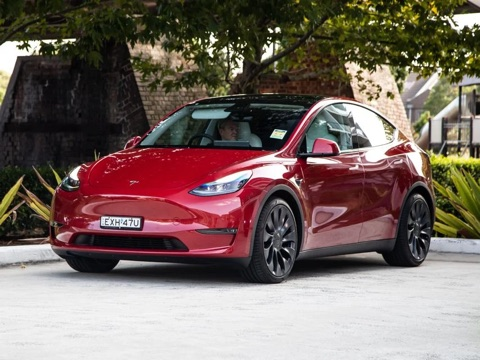
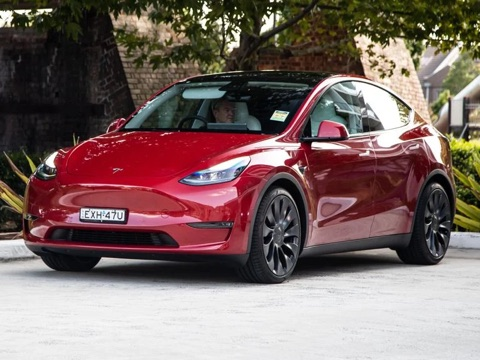
Головні: компактніші demo-блоки, картки прикладів без підписів, рукописна назва продукту
Check demo: оцінка і вердикт "варто розглядати" в одному рядку однією групою,
фото BMW менше на ~28% (196 -> 142px) поруч зі score-зоною, під фото лише
"BMW 5 Series", нижче короткий висновок. Блок став нижчим (285 -> 267px).

Картки прикладів без рядка "Приклад": заголовок блоку вже це каже; лишились
фото, модель і оцінка або сума. "Приклад авто" під фото прибрано на обох
сторінках. EQC і Tesla перекроплені тісніше навколо авто, для кожного
demo-фото окремий object-position.

Import demo: рядки кошторису 34px з іконками 16px, підсумок нижчий, фото
Challenger 132x88 поруч із назвою, три статуси щільніше. Половини рівні за
побудовою; блок за висотою в межах ~12% від Check demo.

Назва продукту біля логотипа: рукописний wordmark Caveat 600 22px у лаймі
(--brand-active) замість важкого курсивного sans; підключення шрифту тим самим
шляхом, що Sora (Google Fonts, text-підмножина "CheckImport"), лише на
чотирьох сторінках із назвою продукту. Правило одне на шести сторінках.

diff --git a/import.html b/import.html
@@ -11,6 +11,7 @@
 <link rel="preconnect" href="https://fonts.googleapis.com">
 <link rel="preconnect" href="https://fonts.gstatic.com" crossorigin>
 <link href="https://fonts.googleapis.com/css2?family=Sora:wght@800&display=swap&text=CalCar" rel="stylesheet">
+<link href="https://fonts.googleapis.com/css2?family=Caveat:wght@600&display=swap&text=CheckImport" rel="stylesheet">
 <style>html.i18n-wait body{visibility:hidden}</style>
 <script>
 /* i18n-core:start */
@@ -239,7 +240,7 @@
   .logo{display:inline-flex;align-items:stretch;border-radius:.46em;overflow:hidden;font-weight:800;font-size:15px;letter-spacing:.01em;line-height:1;text-decoration:none;font-family:'Sora',-apple-system,BlinkMacSystemFont,"Segoe UI",Roboto,Arial,sans-serif}
   .logo .l{background:var(--brand);color:var(--ink);padding:.62em 1.05em .62em .72em;clip-path:polygon(0 0,100% 0,calc(100% - .46em) 100%,0 100%)}
   .logo .r{background:var(--graphite);color:#fff;padding:.62em .72em .62em .98em;margin-left:-.26em;clip-path:polygon(.46em 0,100% 0,100% 100%,0 100%)}
-  .prod{font-size:14px;font-weight:700;font-style:italic;color:var(--brand-active);letter-spacing:.02em;line-height:1;font-family:inherit}
+  .prod{font-family:'Caveat',cursive;font-size:22px;font-weight:600;font-style:normal;color:var(--brand-active);letter-spacing:0;line-height:1;position:relative;top:1px}
   .prod::after{content:attr(data-prod)}
   .header-right{margin-left:0;grid-column:3;justify-self:end;display:flex;align-items:center;gap:16px;font-size:13px}
   .header-right a{color:var(--muted);text-decoration:none}
@@ -485,21 +486,21 @@
      розтягуються на висоту колонки, підсумок притиснутий донизу, тому ліва і
      права половини закінчуються на одній лінії за побудовою */
   .cost{display:flex;flex-direction:column;border-right:1px solid var(--line)}
-  .cost-row{flex:1 1 auto;display:grid;grid-template-columns:auto 1fr auto;gap:12px;align-items:center;min-height:46px;padding:4px 22px;font-size:14px;color:var(--ink-2);border-bottom:1px solid var(--line)}
-  .cost-ic{width:18px;height:18px;color:var(--muted);display:flex}
-  .cost-ic svg{width:18px;height:18px}
-  .cost-row b{font-weight:700;color:var(--ink);font-variant-numeric:tabular-nums;font-size:14.5px}
-  .cost-total{display:flex;justify-content:space-between;align-items:center;gap:12px;margin:12px 14px 14px;padding:14px 16px;border-radius:12px;background:var(--brand-soft);font-size:14.5px;font-weight:700;color:var(--ink)}
-  .cost-total b{font-size:22px;font-weight:800;color:var(--brand-ink);font-variant-numeric:tabular-nums;letter-spacing:-.3px}
+  .cost-row{flex:1 1 auto;display:grid;grid-template-columns:auto 1fr auto;gap:10px;align-items:center;min-height:34px;padding:2px 20px;font-size:13.5px;color:var(--ink-2);border-bottom:1px solid var(--line)}
+  .cost-ic{width:16px;height:16px;color:var(--muted);display:flex}
+  .cost-ic svg{width:16px;height:16px}
+  .cost-row b{font-weight:700;color:var(--ink);font-variant-numeric:tabular-nums;font-size:14px}
+  .cost-total{display:flex;justify-content:space-between;align-items:center;gap:12px;margin:10px 12px 12px;padding:9px 14px;border-radius:10px;background:var(--brand-soft);font-size:14px;font-weight:700;color:var(--ink)}
+  .cost-total b{font-size:19px;font-weight:800;color:var(--brand-ink);font-variant-numeric:tabular-nums;letter-spacing:-.3px}
   /* праворуч від кошторису: фото demo-авто з моделлю і роком, під ним три статуси.
      Фото статичне, зі /demo, не з розрахунків користувача */
   .ex-side{display:flex;flex-direction:column;min-width:0}
-  .ex-car{margin:0;padding:16px 20px 12px;border-bottom:1px solid var(--line)}
-  .ex-photo{width:100%;height:auto;aspect-ratio:16/10;object-fit:cover;border-radius:12px;background:var(--surface-2);display:block}
-  .ex-car b{display:block;font-size:15px;font-weight:700;margin-top:10px}
-  .ex-car i{display:block;font-style:normal;font-size:12px;color:var(--faint);margin-top:1px}
+  /* фото компактне, поруч модель; під ними три статуси щільно */
+  .ex-car{margin:0;padding:10px 18px;border-bottom:1px solid var(--line);display:flex;align-items:center;gap:14px}
+  .ex-photo{flex:0 0 132px;width:132px;height:88px;object-fit:cover;object-position:50% 60%;border-radius:12px;background:var(--surface-2);display:block}
+  .ex-car b{display:block;font-size:15px;font-weight:700}
   .ex-rows{list-style:none;padding:0;flex:1;display:grid;grid-auto-rows:1fr}
-  .ex-rows li{display:grid;grid-template-columns:auto 1fr;gap:12px;align-items:center;padding:8px 22px;border-bottom:1px solid var(--line)}
+  .ex-rows li{display:grid;grid-template-columns:auto 1fr;gap:12px;align-items:center;padding:3px 18px;border-bottom:1px solid var(--line)}
   .ex-rows li:last-child{border-bottom:0}
   /* статус-іконки demo: фірмовий лайм із темною жирною галочкою, мʼякий amber з
      темним знаком, нейтральний сірий зі знаком питання. Це не кольори ризику
@@ -704,7 +705,7 @@
         <div class="cost-total"><span>Landed cost in Ukraine</span><b>$29 150</b></div>
       </div>
       <div class="ex-side">
-        <figure class="ex-car"><img class="ex-photo" src="/demo/import-main-dodge-challenger.jpg" alt="" width="960" height="600" onerror="this.onerror=null;this.removeAttribute('src')"><figcaption><b>Dodge Challenger</b><i>Example vehicle</i></figcaption></figure>
+        <figure class="ex-car"><img class="ex-photo" src="/demo/import-main-dodge-challenger.jpg" alt="" width="960" height="600" onerror="this.onerror=null;this.removeAttribute('src')"><figcaption><b>Dodge Challenger</b></figcaption></figure>
       <ul class="ex-rows">
         <li><span class="ex-ic warn"><svg width="14" height="14" viewBox="0 0 24 24" fill="none" stroke="currentColor" stroke-width="4.4" stroke-linecap="round" stroke-linejoin="round"><path d="M12 4v10"/><path d="M12 19h.01"/></svg></span><span class="ex-txt"><b class="ex-k">Repair risk</b><i>Front impact, hidden damage possible</i></span></li>
         <li><span class="ex-ic ok"><svg width="14" height="14" viewBox="0 0 24 24" fill="none" stroke="currentColor" stroke-width="4.4" stroke-linecap="round" stroke-linejoin="round"><polyline points="20 6 9 17 4 12"/></svg></span><span class="ex-txt"><b class="ex-k">Build sheet</b><i>Options confirmed by VIN</i></span></li>
@@ -1024,9 +1025,9 @@ btn.addEventListener('click', async () => {
   /* фото і назви demo-авто задані власником; підсумки презентаційні і не є
      розрахунком авто на фото */
   const DEMO_ESTIMATES = [
-    { name: 'Mazda 6', photo: '/demo/import-mazda-6.jpg', grand: 19650 },
-    { name: 'Audi A7', photo: '/demo/import-audi-a7.jpg', grand: 31840 },
-    { name: 'Toyota Corolla', photo: '/demo/import-toyota-corolla.jpg', grand: 16480 },
+    { name: 'Mazda 6', photo: '/demo/import-mazda-6.jpg', pos: '50% 55%', grand: 19650 },
+    { name: 'Audi A7', photo: '/demo/import-audi-a7.jpg', pos: '50% 50%', grand: 31840 },
+    { name: 'Toyota Corolla', photo: '/demo/import-toyota-corolla.jpg', pos: '45% 55%', grand: 16480 },
   ];
   function renderExampleEstimates(){
     const box = document.getElementById('recent'), grid = document.getElementById('recentGrid');
@@ -1034,8 +1035,8 @@ btn.addEventListener('click', async () => {
     document.getElementById('recentTitle').textContent = t('Examples of estimates');
     document.getElementById('recentAll').style.display = 'none';
     grid.innerHTML = DEMO_ESTIMATES.map(d => '<div class="rc rc-demo" aria-label="' + esc(t('Example')) + '">'
-      + '<span class="rc-ph"><img alt="" src="' + d.photo + '"></span>'
-      + '<span class="rc-body"><span class="rc-t">' + esc(d.name) + '</span><span class="rc-m">' + esc(t('Example')) + '</span></span>'
+      + '<span class="rc-ph"><img alt="" src="' + d.photo + '" style="object-position:' + (d.pos || '50% 50%') + '"></span>'
+      + '<span class="rc-body"><span class="rc-t">' + esc(d.name) + '</span></span>'
       + '<span class="rc-v"><span class="rc-sum">$' + esc(nf(d.grand)) + '</span><span class="rc-d">' + esc(t('landed cost')) + '</span></span>'
       + '</div>').join('');
     /* битий файл фото: нейтральна заглушка, ніяких ілюстрацій */

diff --git a/check.html b/check.html
@@ -11,6 +11,7 @@
 <link rel="preconnect" href="https://fonts.googleapis.com">
 <link rel="preconnect" href="https://fonts.gstatic.com" crossorigin>
 <link href="https://fonts.googleapis.com/css2?family=Sora:wght@800&display=swap&text=CalCarheck" rel="stylesheet">
+<link href="https://fonts.googleapis.com/css2?family=Caveat:wght@600&display=swap&text=CheckImport" rel="stylesheet">
 <style>html.i18n-wait body{visibility:hidden}</style>
 <script>
 /* i18n-core:start */
@@ -249,7 +250,7 @@
   .logo{display:inline-flex;align-items:stretch;border-radius:.46em;overflow:hidden;font-weight:800;font-size:15px;letter-spacing:.01em;line-height:1;text-decoration:none;font-family:'Sora',-apple-system,BlinkMacSystemFont,"Segoe UI",Roboto,Arial,sans-serif}
   .logo .l{background:var(--brand);color:var(--ink);padding:.62em 1.05em .62em .72em;clip-path:polygon(0 0,100% 0,calc(100% - .46em) 100%,0 100%)}
   .logo .r{background:var(--graphite);color:#fff;padding:.62em .72em .62em .98em;margin-left:-.26em;clip-path:polygon(.46em 0,100% 0,100% 100%,0 100%)}
-  .prod{font-size:14px;font-weight:700;font-style:italic;color:var(--brand-active);letter-spacing:.02em;line-height:1;font-family:inherit}
+  .prod{font-family:'Caveat',cursive;font-size:22px;font-weight:600;font-style:normal;color:var(--brand-active);letter-spacing:0;line-height:1;position:relative;top:1px}
   .prod::after{content:attr(data-prod)}
   .header-right a{color:var(--muted);text-decoration:none}
   .header-right a:hover{color:var(--ink)}
@@ -555,13 +556,14 @@
      унизу короткий висновок. Панель це flex-колонка з розтягом, а рядки
      праворуч це grid із рівними рядками на всю висоту, тому обидві половини
      закінчуються на одній лінії за побудовою */
-  .ex-left{padding:20px 22px 18px;border-right:1px solid var(--line);display:flex;flex-direction:column;justify-content:space-between;gap:14px}
-  .ex-top{display:grid;grid-template-columns:minmax(0,1fr) 196px;gap:16px;align-items:start}
+  .ex-left{padding:18px 22px 16px;border-right:1px solid var(--line);display:flex;flex-direction:column;justify-content:space-between;gap:12px}
+  .ex-top{display:grid;grid-template-columns:minmax(0,1fr) 142px;gap:14px;align-items:center}
+  /* оцінка і вердикт однією групою в одному рядку */
+  .ex-scorerow{display:flex;align-items:center;gap:10px;flex-wrap:wrap;margin:6px 0 0}
   .ex-main{min-width:0}
   .ex-fig{margin:0}
   .ex-photo{width:100%;height:auto;aspect-ratio:4/3;object-fit:cover;border-radius:12px;background:var(--surface-2);display:block}
-  .ex-fig figcaption b{display:block;font-size:13.5px;font-weight:700;margin-top:8px}
-  .ex-fig figcaption i{display:block;font-style:normal;font-size:12px;color:var(--faint);margin-top:1px}
+  .ex-fig figcaption b{display:block;font-size:13px;font-weight:700;margin-top:7px;text-align:center}
   .ex-lab{display:flex;align-items:center;gap:6px;font-size:12.5px;font-weight:700;color:var(--muted)}
   /* (i): та сама підказка, що в справжньому звіті (score-tip), на наведення і фокус */
   .ex-i{position:relative;width:15px;height:15px;border-radius:50%;border:1.5px solid var(--line-strong);color:var(--faint);font-size:9px;font-weight:700;display:inline-flex;align-items:center;justify-content:center;font-style:italic;font-family:Georgia,serif;cursor:pointer;outline:none}
@@ -573,8 +575,8 @@
   .ex-tip span + span{margin-top:6px;color:var(--muted)}
   /* оцінка тим самим компонентом, число підкреслене фірмовим лаймом, як em у заголовку:
      лайм текстом на білому не проходить контраст, підкреслення проходить */
-  .ex-score{display:inline-flex;align-items:baseline;line-height:1;font-variant-numeric:tabular-nums;margin:6px 0 10px}
-  .ex-score b{font-size:42px;font-weight:800;letter-spacing:-1px;background:linear-gradient(transparent 72%,var(--brand) 72%);padding:0 2px}
+  .ex-score{display:inline-flex;align-items:baseline;line-height:1;font-variant-numeric:tabular-nums;margin:0}
+  .ex-score b{font-size:40px;font-weight:800;letter-spacing:-1px;background:linear-gradient(transparent 72%,var(--brand) 72%);padding:0 2px}
   .ex-score small{font-size:15px;font-weight:600;color:var(--muted);margin-left:5px}
   /* вердикт тим самим стилем, що risk-label у справжньому звіті */
   .ex-verdict{display:inline-block;font-size:12px;font-weight:600;padding:2px 8px;border-radius:12px;background:var(--green-soft);color:var(--green)}
@@ -596,7 +598,7 @@
   @media(max-width:760px){
     .ex{grid-template-columns:1fr}
     .ex-left{border-right:0;border-bottom:1px solid var(--line)}
-    .ex-top{grid-template-columns:minmax(0,1fr) 150px}
+    .ex-top{grid-template-columns:minmax(0,1fr) 128px}
     .ex-rows{height:auto}
     .ex-rows li{padding:10px 16px}
   }
@@ -702,12 +704,11 @@
         <div class="ex-top">
           <div class="ex-main">
             <div class="ex-lab">CalCar Score <span class="ex-i" tabindex="0" role="button" aria-label="CalCar Score">i<span class="ex-tip"><b>CalCar Score</b><span>Our assessment of the car based on the data we could verify.</span><span>Critical risks can weigh more heavily on the final score.</span></span></span></div>
-            <div class="ex-score"><b>8.1</b><small>/10</small></div>
-            <span class="ex-verdict">Worth considering</span>
+            <div class="ex-scorerow"><div class="ex-score"><b>8.1</b><small>/10</small></div><span class="ex-verdict">Worth considering</span></div>
           </div>
           <figure class="ex-fig">
             <img class="ex-photo" src="/demo/check-main-bmw-5-series.jpg" alt="" width="960" height="720" onerror="this.onerror=null;this.removeAttribute('src')">
-            <figcaption><b>BMW 5 Series</b><i>Example vehicle</i></figcaption>
+            <figcaption><b>BMW 5 Series</b></figcaption>
           </figure>
         </div>
         <p class="ex-sum">Low, well-documented mileage and a sound engine version outweigh a moderate accident history.</p>
@@ -1010,9 +1011,9 @@ window.calcarRenderRecent = renderRecentChecks;   /* smoke-перевірки р
 /* фото і назви demo-авто задані власником; оцінки презентаційні і не рахуються
    по авто на фото */
 const DEMO_CHECKS = [
-  { name: 'Mercedes EQC', photo: '/demo/check-mercedes-eqc.jpg', score: 8.1 },
-  { name: 'Tesla Model Y', photo: '/demo/check-tesla-model-y.jpg', score: 7.4 },
-  { name: 'Audi Q5', photo: '/demo/check-audi-q5.jpg', score: 6.8 },
+  { name: 'Mercedes EQC', photo: '/demo/check-mercedes-eqc.jpg', pos: '50% 55%', score: 8.1 },
+  { name: 'Tesla Model Y', photo: '/demo/check-tesla-model-y.jpg', pos: '50% 50%', score: 7.4 },
+  { name: 'Audi Q5', photo: '/demo/check-audi-q5.jpg', pos: '45% 50%', score: 6.8 },
 ];
 function renderExampleChecks(){
   const box = document.getElementById('recent'), grid = document.getElementById('recentGrid');
@@ -1020,8 +1021,8 @@ function renderExampleChecks(){
   document.getElementById('recentTitle').textContent = t('Examples of checks');
   document.getElementById('recentAll').style.display = 'none';
   grid.innerHTML = DEMO_CHECKS.map(d => '<div class="rc rc-demo" aria-label="' + esc(t('Example')) + '">'
-    + '<span class="rc-ph"><img alt="" src="' + d.photo + '"></span>'
-    + '<span class="rc-body"><span class="rc-t">' + esc(d.name) + '</span><span class="rc-m">' + esc(t('Example')) + '</span></span>'
+    + '<span class="rc-ph"><img alt="" src="' + d.photo + '" style="object-position:' + (d.pos || '50% 50%') + '"></span>'
+    + '<span class="rc-body"><span class="rc-t">' + esc(d.name) + '</span></span>'
     + '<span class="rc-v"><span class="rc-score ' + (d.score >= 7.5 ? 'ok' : d.score >= 5.5 ? 'warn' : 'bad') + '"><b>' + d.score.toFixed(1) + '</b><small>/10</small></span></span>'
     + '</div>').join('');
   /* битий файл фото: нейтральна заглушка, ніяких ілюстрацій */

diff --git a/landingtest.js b/landingtest.js
@@ -57,7 +57,14 @@ for (const [f, s] of Object.entries(PAGES)) {
   if (!/grid\.querySelectorAll\('\.rc-ph img'\)\.forEach\(img => img\.addEventListener\('error', \(\) => \{ img\.parentNode\.innerHTML = RC_PH; \}/.test(s)) errs.push(f + ': demo-картки без нейтрального фолбека');
   if (!/<img class="ex-photo" src="\/demo\//.test(s)) errs.push(f + ': у прикладі результату нема demo-фото');
   if (/\.hero-badge::before/.test(s)) errs.push(f + ': крапка перед бейджем повернулась');
-  if (!/\.prod\{font-size:14px;font-weight:700;font-style:italic;color:var\(--brand-active\)/.test(s) || (s.match(/^\s*\.prod\{/gm) || []).length !== 1) errs.push(f + ': назва продукту не одним lime-правилом');
+  if (!/\.prod\{font-family:'Caveat',cursive;font-size:22px;font-weight:600;font-style:normal;color:var\(--brand-active\)/.test(s) || (s.match(/^\s*\.prod\{/gm) || []).length !== 1) errs.push(f + ': назва продукту не одним lime-правилом (Caveat)');
+  if (!/family=Caveat:wght@600&display=swap&text=CheckImport/.test(s)) errs.push(f + ': шрифт Caveat не підключений або без text-підмножини');
+  /* у demo-картках лише фото, модель і оцінка/сума: без рядка "Приклад" і без "Приклад авто" */
+  if (/Example vehicle/.test(s)) errs.push(f + ': "Example vehicle" повернувся');
+  const exFn = f === 'check.html' ? 'renderExampleChecks' : 'renderExampleEstimates';
+  const st = s.indexOf('function ' + exFn + '(){'); let i2 = s.indexOf('{', st), dd = 0; for (; i2 < s.length; i2++) { if (s[i2] === '{') dd++; else if (s[i2] === '}' && --dd === 0) break; }
+  if (/rc-m/.test(s.slice(st, i2 + 1))) errs.push(f + ': у demo-картках лишився вторинний рядок');
+  if (!/object-position:' \+ \(d\.pos \|\| '50% 50%'\)/.test(s)) errs.push(f + ': demo-фото без індивідуального object-position');
   if (!/\.ex-ic\.ok\{background:var\(--brand\)\}/.test(s) || !/\.ex-ic\.warn\{background:var\(--amber-soft\)/.test(s)) errs.push(f + ': статус-іконки не в системі лайм/amber/нейтральний');
   if (/\.ex-ic\.ok\{background:var\(--green-soft\)/.test(s)) errs.push(f + ': позитивний статус знову generic green');
   /* футер мінімальний: лише копірайт, без другого логотипа і beta */

diff --git a/result.html b/result.html
@@ -10,6 +10,7 @@
 <link rel="preconnect" href="https://fonts.googleapis.com">
 <link rel="preconnect" href="https://fonts.gstatic.com" crossorigin>
 <link href="https://fonts.googleapis.com/css2?family=Sora:wght@800&display=swap&text=CalCar" rel="stylesheet">
+<link href="https://fonts.googleapis.com/css2?family=Caveat:wght@600&display=swap&text=CheckImport" rel="stylesheet">
 <style>html.i18n-wait body{visibility:hidden}</style>
 <script>
 /* i18n-core:start */
@@ -240,7 +241,7 @@
   .logo{display:inline-flex;align-items:stretch;border-radius:.46em;overflow:hidden;font-weight:800;font-size:15px;letter-spacing:.01em;line-height:1;text-decoration:none;font-family:'Sora',-apple-system,BlinkMacSystemFont,"Segoe UI",Roboto,Arial,sans-serif}
   .logo .l{background:var(--brand);color:var(--ink);padding:.62em 1.05em .62em .72em;clip-path:polygon(0 0,100% 0,calc(100% - .46em) 100%,0 100%)}
   .logo .r{background:var(--graphite);color:#fff;padding:.62em .72em .62em .98em;margin-left:-.26em;clip-path:polygon(.46em 0,100% 0,100% 100%,0 100%)}
-  .prod{font-size:14px;font-weight:700;font-style:italic;color:var(--brand-active);letter-spacing:.02em;line-height:1;font-family:inherit}
+  .prod{font-family:'Caveat',cursive;font-size:22px;font-weight:600;font-style:normal;color:var(--brand-active);letter-spacing:0;line-height:1;position:relative;top:1px}
   .prod::after{content:attr(data-prod)}
   .header-right{margin-left:auto;display:flex;align-items:center;gap:16px;font-size:13px}
   .header-right a{color:var(--muted);text-decoration:none}

diff --git a/result-check.html b/result-check.html
@@ -11,6 +11,7 @@
 <link rel="preconnect" href="https://fonts.googleapis.com">
 <link rel="preconnect" href="https://fonts.gstatic.com" crossorigin>
 <link href="https://fonts.googleapis.com/css2?family=Sora:wght@800&display=swap&text=CalCarheck" rel="stylesheet">
+<link href="https://fonts.googleapis.com/css2?family=Caveat:wght@600&display=swap&text=CheckImport" rel="stylesheet">
 <style>html.i18n-wait body{visibility:hidden}</style>
 <script>
 /* i18n-core:start */
@@ -249,7 +250,7 @@
   .logo{display:inline-flex;align-items:stretch;border-radius:.46em;overflow:hidden;font-weight:800;font-size:15px;letter-spacing:.01em;line-height:1;text-decoration:none;font-family:'Sora',-apple-system,BlinkMacSystemFont,"Segoe UI",Roboto,Arial,sans-serif}
   .logo .l{background:var(--brand);color:var(--ink);padding:.62em 1.05em .62em .72em;clip-path:polygon(0 0,100% 0,calc(100% - .46em) 100%,0 100%)}
   .logo .r{background:var(--graphite);color:#fff;padding:.62em .72em .62em .98em;margin-left:-.26em;clip-path:polygon(.46em 0,100% 0,100% 100%,0 100%)}
-  .prod{font-size:14px;font-weight:700;font-style:italic;color:var(--brand-active);letter-spacing:.02em;line-height:1;font-family:inherit}
+  .prod{font-family:'Caveat',cursive;font-size:22px;font-weight:600;font-style:normal;color:var(--brand-active);letter-spacing:0;line-height:1;position:relative;top:1px}
   .prod::after{content:attr(data-prod)}
   .header-right a{color:var(--muted);text-decoration:none}
   .header-right a:hover{color:var(--ink)}

diff --git a/garage.html b/garage.html
@@ -207,7 +207,7 @@ header{background:rgba(255,255,255,.88);backdrop-filter:blur(10px);-webkit-backd
 .logo .l{background:var(--brand);color:var(--ink);padding:.62em 1.05em .62em .72em;clip-path:polygon(0 0,100% 0,calc(100% - .46em) 100%,0 100%)}
 .logo .r{background:var(--graphite);color:#fff;padding:.62em .72em .62em .98em;margin-left:-.26em;clip-path:polygon(.46em 0,100% 0,100% 100%,0 100%)}
 .hleft{display:flex;align-items:center;gap:14px;justify-self:start}
-.prod{font-size:14px;font-weight:700;font-style:italic;color:var(--brand-active);letter-spacing:.02em;line-height:1;font-family:inherit}
+.prod{font-family:'Caveat',cursive;font-size:22px;font-weight:600;font-style:normal;color:var(--brand-active);letter-spacing:0;line-height:1;position:relative;top:1px}
 .prod::after{content:attr(data-prod)}
 .header-right{margin-left:0;grid-column:3;justify-self:end;display:flex;align-items:center;gap:16px;font-size:13px}
 .btn-auth{display:inline-flex;align-items:center;gap:8px;border:1px solid var(--line-strong);border-radius:20px;padding:7px 14px;background:var(--card);color:var(--ink)!important;font-weight:600;font-size:13px;text-decoration:none;transition:background .15s,border-color .15s}

diff --git a/cabinet.html b/cabinet.html
@@ -207,7 +207,7 @@
  .logo .r{background:var(--graphite);color:#fff;padding:.62em .72em .62em .98em;margin-left:-.26em;clip-path:polygon(.46em 0,100% 0,100% 100%,0 100%)}
  .header-right{margin-left:0;grid-column:3;justify-self:end;display:flex;align-items:center;gap:16px;font-size:13px}
  .hleft{display:flex;align-items:center;gap:14px;justify-self:start}
- .prod{font-size:14px;font-weight:700;font-style:italic;color:var(--brand-active);letter-spacing:.02em;line-height:1;font-family:inherit}
+ .prod{font-family:'Caveat',cursive;font-size:22px;font-weight:600;font-style:normal;color:var(--brand-active);letter-spacing:0;line-height:1;position:relative;top:1px}
  .prod::after{content:attr(data-prod)}
  .btn-auth{display:inline-flex;align-items:center;gap:8px;border:1px solid var(--line-strong);border-radius:20px;padding:7px 14px;background:var(--card);color:var(--ink)!important;font-weight:600;font-size:13px;text-decoration:none;transition:background .15s,border-color .15s}
  .btn-auth:hover{background:var(--surface-2)}

diff --git a/headertest.js b/headertest.js
@@ -7,7 +7,7 @@ const vm = require('vm');
 const errs = [];
 const PAGES = ['check.html', 'import.html', 'result.html', 'result-check.html', 'cabinet.html', 'garage.html'];
 const S = Object.fromEntries(PAGES.map(p => [p, fs.readFileSync(p, 'utf8')]));
-const PROD_CSS = '.prod{font-size:14px;font-weight:700;font-style:italic;color:var(--brand-active);letter-spacing:.02em;line-height:1;font-family:inherit}';
+const PROD_CSS = ".prod{font-family:'Caveat',cursive;font-size:22px;font-weight:600;font-style:normal;color:var(--brand-active);letter-spacing:0;line-height:1;position:relative;top:1px}";
 const PROD = { 'check.html': 'Check', 'result-check.html': 'Check', 'import.html': 'Import', 'result.html': 'Import' };
 const MENU = ['/cabinet.html#reports', '/garage', '/cabinet.html#memory', '/cabinet.html#account'];
 const ICON = '<circle cx="12" cy="8" r="4"/><path d="M4 21c0-4 3.6-6.5 8-6.5s8 2.5 8 6.5"/>';

diff --git a/i18n/ua.js b/i18n/ua.js
@@ -620,7 +620,6 @@ window.CALCAR_DICTS.ua = {
   /* ---- фінальна ітерація головних: приклади, demo-авто, футер ---- */
   'Examples of checks': 'Приклади перевірок',
   'Examples of estimates': 'Приклади розрахунків',
-  'Example vehicle': 'Приклад авто',
   '© 2026 CalCar': '© 2026 CalCar',
   'BMW 5 Series': 'BMW 5 Series',
   'Dodge Challenger': 'Dodge Challenger',

diff --git a/i18n/ru.js b/i18n/ru.js
@@ -620,7 +620,6 @@ window.CALCAR_DICTS.ru = {
   /* ---- фінальна ітерація головних: приклади, demo-авто, футер ---- */
   'Examples of checks': 'Примеры проверок',
   'Examples of estimates': 'Примеры расчётов',
-  'Example vehicle': 'Пример авто',
   '© 2026 CalCar': '© 2026 CalCar',
   'BMW 5 Series': 'BMW 5 Series',
   'Dodge Challenger': 'Dodge Challenger',
